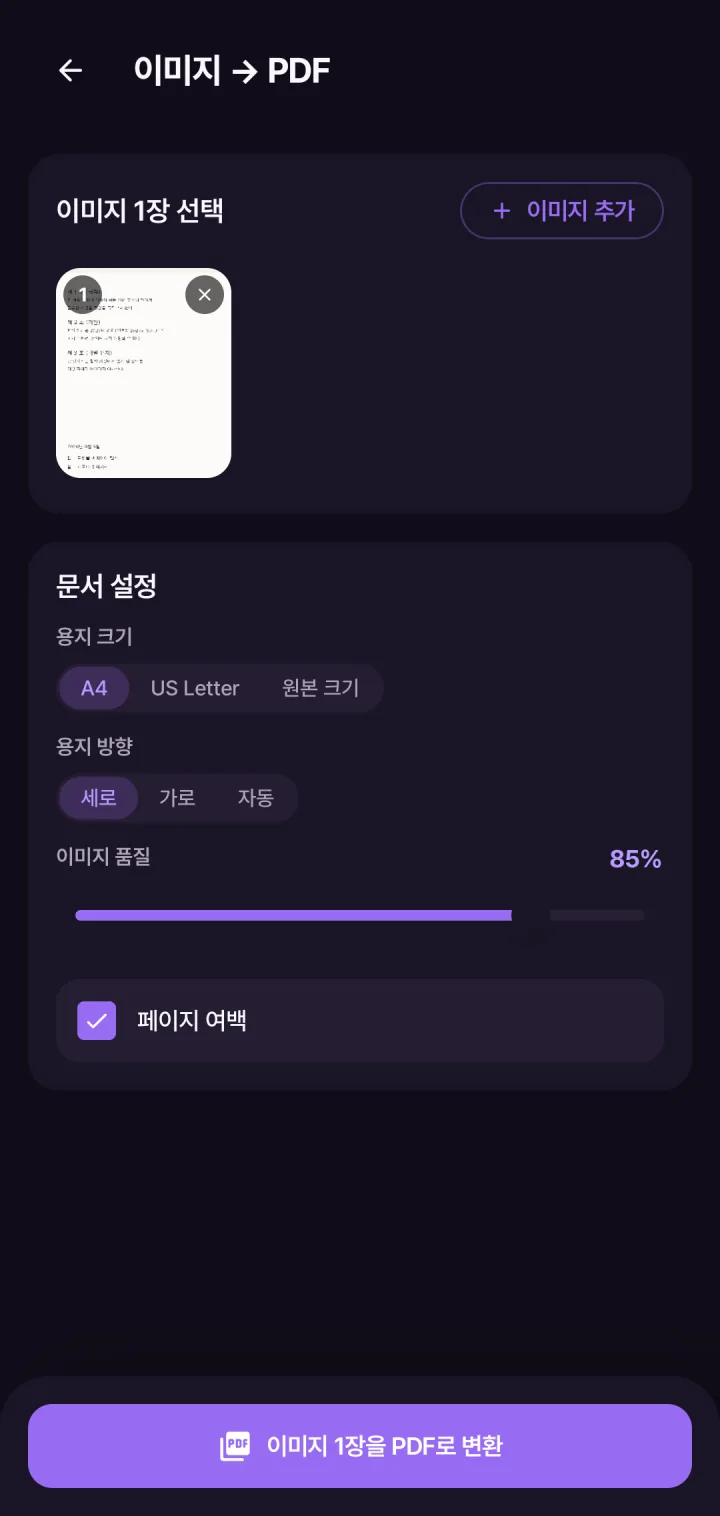
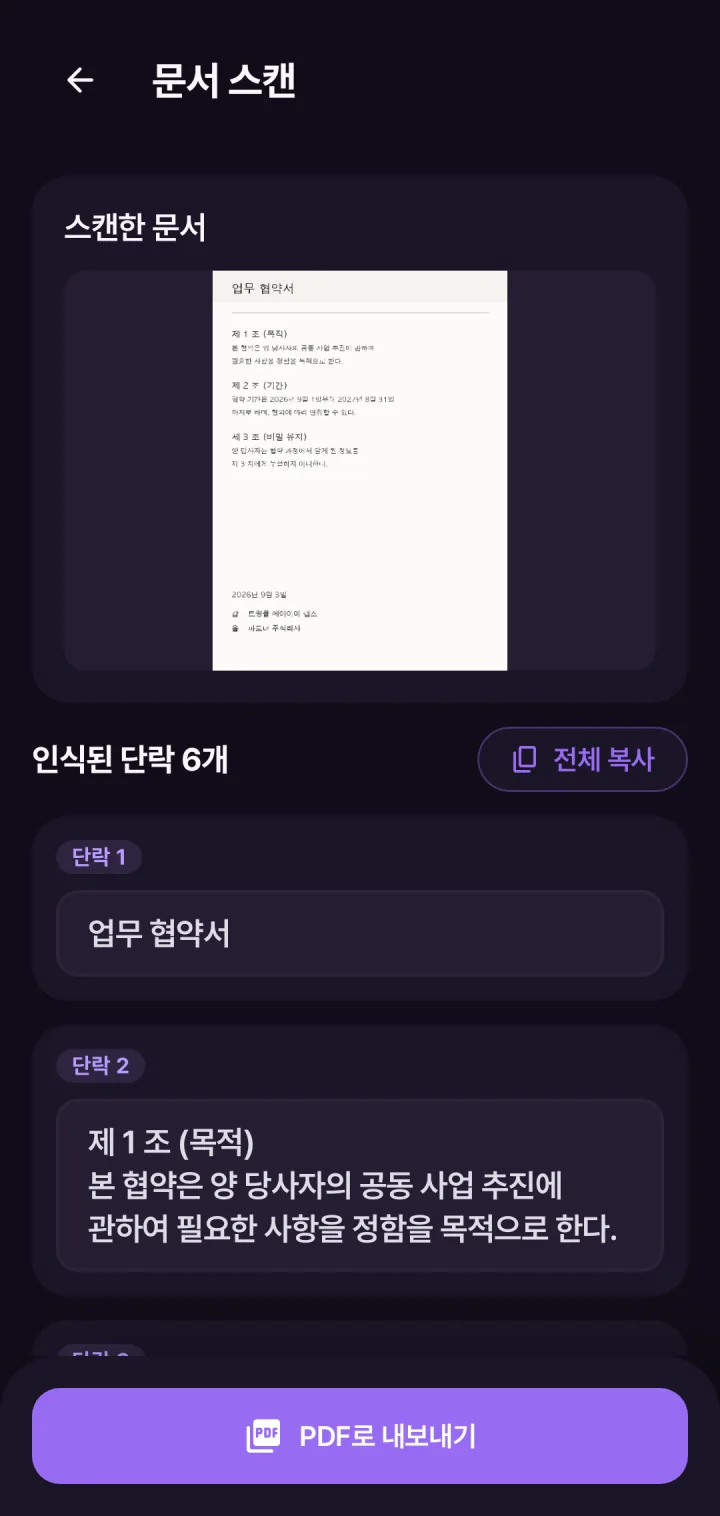
fix(door): «한글까지 검색되는 스캔» 옆에 스캔 결과 화면 — 이미지 → PDF 가 서 있었다
스캔한 문서 · 인식된 단락 여섯 · 전체 복사 · PDF로 내보내기. 에뮬레이터는 스캐너(GMS 모듈)를 띄우지 못해
Pocket PDF 의 OcrDoorShotTest 가 그렸다. 이름표도 그 화면의 말로.

diff --git a/src/lib/labs.ts b/src/lib/labs.ts
@@ -309,7 +309,7 @@ export const APPS: readonly LabApp[] = [
         {
           title: "한글까지 검색되는 스캔",
           body: "문서를 촬영하면 윤곽과 원근을 잡아 반듯하게 펴고, 한글과 영어를 읽어 검색하고 복사할 수 있는 PDF로 굽습니다.",
-          screen: screen("pocket-pdf", "scan", "이미지 → PDF 화면 — 계약서 사진 한 장을 골라 A4 세로로 굽기 전"),
+          screen: screen("pocket-pdf", "scan", "문서 스캔 결과 — 스캔한 업무협약서와 인식된 단락 여섯, 전체 복사 · PDF로 내보내기"),
           facts: [
             { label: "텍스트 인식", value: "한국어 · 영어" },
             { label: "결과물", value: "검색 가능한 PDF" },
